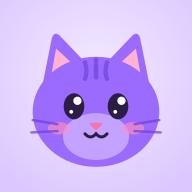
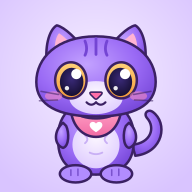
Time limit, auto-retry and backup model for Gemini; new shaded full-body cat
Claude-Session: https://claude.ai/code/session_019n5tnnEFKCgU8nDrxJsvHc

diff --git a/ai.js b/ai.js
@@ -72,14 +72,19 @@ export class AIError extends Error {
 
 // ---------- Gemini ----------
 const GEMINI = "https://generativelanguage.googleapis.com/v1beta";
+const wait = (ms) => new Promise((r) => setTimeout(r, ms));
 
 function versionScore(name) {
   const m = name.match(/gemini-(\d+)(?:\.(\d+))?/);
   return m ? Number(m[1]) * 100 + Number(m[2] || 0) : 0;
 }
+function newestFirst(list) {
+  return list.sort((a, b) => versionScore(b) - versionScore(a) || a.length - b.length);
+}
 
-// Picks the newest regular "flash" model this key can use, so the app keeps working as Google renames models.
-export async function pickGeminiModel(key) {
+// Finds the newest regular "flash" model and the newest "flash-lite" model this key can use.
+// Lite is the backup: lighter, faster and usually much less crowded.
+export async function pickGeminiModels(key) {
   let res;
   try {
     res = await fetch(`${GEMINI}/models?pageSize=200`, { headers: { "x-goog-api-key": key } });
@@ -94,18 +99,17 @@ export async function pickGeminiModel(key) {
   const names = (data.models || [])
     .filter((m) => (m.supportedGenerationMethods || []).includes("generateContent"))
     .map((m) => m.name.replace(/^models\//, ""));
-  const bad = /(lite|preview|exp|image|tts|audio|live|thinking|embedding|vision|8b|latest)/;
-  const flash = names.filter((n) => /^gemini-[\d.]+-flash/.test(n) && !bad.test(n));
-  flash.sort((a, b) => versionScore(b) - versionScore(a) || a.length - b.length);
-  if (flash[0]) return flash[0];
-  const anyFlash = names.filter((n) => n.includes("flash") && !/(image|tts|audio|live|embedding)/.test(n));
-  anyFlash.sort((a, b) => versionScore(b) - versionScore(a));
-  if (anyFlash[0]) return anyFlash[0];
-  if (names[0]) return names[0];
-  throw new AIError("other", "This key can't use any Gemini model that reads photos.");
+  const odd = /(preview|exp|image|tts|audio|live|thinking|embedding|vision|8b|latest|native|computer|robotics)/;
+  const stable = names.filter((n) => /^gemini-[\d.]+-flash/.test(n) && !odd.test(n));
+  const main = newestFirst(stable.filter((n) => !/lite/.test(n)))[0]
+    || newestFirst(names.filter((n) => /flash/.test(n) && !/lite/.test(n) && !/(image|tts|audio|live|embedding)/.test(n)))[0];
+  const lite = newestFirst(stable.filter((n) => /lite/.test(n)))[0]
+    || newestFirst(names.filter((n) => /flash-lite/.test(n) && !/(image|tts|audio|live|embedding)/.test(n)))[0];
+  if (!main && !lite) throw new AIError("other", "This key can't use any Gemini model that reads photos.");
+  return { main: main || lite, lite: lite || main };
 }
 
-async function geminiChat(key, model, turns, photoDataUrl) {
+async function geminiChat(key, model, turns, photoDataUrl, timeoutMs) {
   const contents = turns.map((t, i) => {
     const parts = [];
     if (i === 0 && photoDataUrl) {
@@ -116,10 +120,13 @@ async function geminiChat(key, model, turns, photoDataUrl) {
     parts.push({ text: t.role === "model" ? (t.raw || t.text) : (t.text || "Here's what I ate. What is it?") });
     return { role: t.role === "model" ? "model" : "user", parts };
   });
-  let res;
+  const ctl = new AbortController();
+  const timer = setTimeout(() => ctl.abort(), timeoutMs);
+  let res, data;
   try {
     res = await fetch(`${GEMINI}/models/${model}:generateContent`, {
       method: "POST",
+      signal: ctl.signal,
       headers: { "Content-Type": "application/json", "x-goog-api-key": key },
       body: JSON.stringify({
         systemInstruction: { parts: [{ text: INSTRUCTIONS }] },
@@ -127,25 +134,27 @@ async function geminiChat(key, model, turns, photoDataUrl) {
         generationConfig: { responseMimeType: "application/json", temperature: 0.4 },
       }),
     });
-  } catch {
+    data = await res.json().catch(() => null);
+  } catch (e) {
+    if (ctl.signal.aborted) throw new AIError("busy", `Gemini took too long to answer (${model}).`);
     throw new AIError("network", "Couldn't reach Google. Check your internet and try again.");
+  } finally {
+    clearTimeout(timer);
   }
-  if (res.status === 429) throw new AIError("limit", "You've hit Gemini's free limit for now. Try again in a little while.");
+  const detail = data?.error?.message || "";
+  if (res.status === 429) throw new AIError("limit", `Gemini's free limit is used up for now (${model}).`);
+  if ([500, 502, 503, 504].includes(res.status)) throw new AIError("busy", `Gemini is overloaded right now (${res.status}, ${model}).`);
+  if (res.status === 404 || /not found|not supported/i.test(detail)) throw new AIError("model", `Model ${model} isn't available.`);
   if (res.status === 400 || res.status === 401 || res.status === 403) {
-    let detail = "";
-    try { detail = (await res.json()).error?.message || ""; } catch {}
-    if (/api key/i.test(detail)) throw new AIError("key", "Your Gemini key stopped working. Paste a fresh one in Settings.");
-    if (res.status === 404 || /not found|not supported/i.test(detail)) throw new AIError("model", "model");
-    throw new AIError("other", "Gemini couldn't read that. Try a clearer photo or describe it in words.");
+    if (/api key|permission|unauth/i.test(detail)) throw new AIError("key", "Your Gemini key stopped working. Paste a fresh one in Settings.");
+    throw new AIError("other", `Gemini couldn't read that: ${detail || res.status}`);
   }
-  if (res.status === 404) throw new AIError("model", "model");
-  if (!res.ok) throw new AIError("other", `Gemini had a hiccup (${res.status}). Try again in a minute.`);
-  const data = await res.json();
-  const cand = data.candidates?.[0];
+  if (!res.ok) throw new AIError("busy", `Gemini had a hiccup (${res.status}, ${model}).`);
+  const cand = data?.candidates?.[0];
   if (!cand || cand.finishReason === "SAFETY") throw new AIError("other", "Gemini didn't want to answer that one. Try describing it in words.");
   const text = (cand.content?.parts || []).filter((p) => !p.thought).map((p) => p.text || "").join("");
   const parsed = cleanJSON(text);
-  if (!parsed) throw new AIError("other", "Gemini's answer came out jumbled. Tap send again.");
+  if (!parsed) throw new AIError("busy", "Gemini's answer came out jumbled.");
   return normalise(parsed);
 }
 
@@ -173,26 +182,34 @@ async function fakeChat(turns, photo) {
 }
 
 // turns: [{role:"user"|"model", text, raw?}]; photo is sent with the first turn.
+// Tries the main model, then the lighter backup model, so a busy Google server doesn't leave you stuck.
 export async function askAI(turns, photoDataUrl, { demo = false } = {}) {
   if (demo) return fakeChat(turns, photoDataUrl);
   const s = loadAISettings();
   const key = s.keys?.[s.provider];
   if (!key) throw new AIError("nokey", "Add your Gemini key in Settings first.");
   if (s.provider !== "gemini") throw new AIError("other", "Only Gemini works right now.");
-  let model = s.models?.gemini;
-  if (!model) {
-    model = await pickGeminiModel(key);
-    s.models = { ...(s.models || {}), gemini: model };
+  let models = s.models?.geminiSet;
+  const refresh = async () => {
+    models = await pickGeminiModels(key);
+    s.models = { ...(s.models || {}), geminiSet: models };
     saveAISettings(s);
+  };
+  if (!models) await refresh();
+  const plan = [[models.main, 40000], [models.lite, 30000], [models.lite, 30000]];
+  let lastErr;
+  for (let i = 0; i < plan.length; i++) {
+    const [model, timeout] = plan[i];
+    if (i > 0 && plan[i - 1][0] === model) await wait(2000);
+    try {
+      return await geminiChat(key, model, turns, photoDataUrl, timeout);
+    } catch (e) {
+      lastErr = e;
+      if (e.kind === "model") { await refresh(); continue; }
+      if (e.kind !== "busy" && e.kind !== "limit") throw e;
+    }
   }
-  try {
-    return await geminiChat(key, model, turns, photoDataUrl);
-  } catch (e) {
-    if (e.kind !== "model") throw e;
-    // The saved model was retired: pick a fresh one and try once more.
-    model = await pickGeminiModel(key);
-    s.models = { ...(s.models || {}), gemini: model };
-    saveAISettings(s);
-    return geminiChat(key, model, turns, photoDataUrl);
-  }
+  throw new AIError(lastErr?.kind === "limit" ? "limit" : "busy",
+    (lastErr?.kind === "limit" ? "Gemini's free limit is used up for now. Try again later." : "Gemini is too busy right now. Try again in a minute.")
+    + ` (${lastErr?.message || ""})`);
 }

diff --git a/cat.js b/cat.js
@@ -1,27 +1,69 @@
-// Munchkin the cat, drawn as SVG so it stays crisp at any size.
-// Stage 1: one still pose. More poses arrive with the animation update.
+// Munchkin the cat: a chubby purple kitten with soft shading, outlines and big glossy eyes.
+// Drawn as SVG so it stays crisp at any size. More poses arrive with the animation update.
+let uid = 0;
 export function catSVG({ size = "100%", label = "Munchkin the cat" } = {}) {
+  const k = `c${uid++}`;
+  const O = "#3b2163"; // outline
   return `
-<svg viewBox="0 0 120 120" width="${size}" height="${size}" role="img" aria-label="${label}">
-  <g>
-    <path d="M20 54 L28 14 Q30 9 34 13 L54 34 Z" fill="#9b6bff"/>
-    <path d="M100 54 L92 14 Q90 9 86 13 L66 34 Z" fill="#9b6bff"/>
-    <path d="M27 44 L31 22 L45 35 Z" fill="#ffb3d1"/>
-    <path d="M93 44 L89 22 L75 35 Z" fill="#ffb3d1"/>
-    <ellipse cx="60" cy="68" rx="46" ry="40" fill="#9b6bff"/>
-    <path d="M52 32 q2 7 0 12 M60 30 q0 8 0 13 M68 32 q-2 7 0 12" stroke="#7d4ee8" stroke-width="3.2" fill="none" stroke-linecap="round"/>
-    <ellipse cx="60" cy="86" rx="24" ry="17" fill="#c3a3ff"/>
-    <ellipse cx="33" cy="80" rx="8" ry="4.5" fill="#ff8fbf" opacity=".65"/>
-    <ellipse cx="87" cy="80" rx="8" ry="4.5" fill="#ff8fbf" opacity=".65"/>
-    <ellipse cx="44" cy="64" rx="7.5" ry="9.5" fill="#2b1d44"/>
-    <ellipse cx="76" cy="64" rx="7.5" ry="9.5" fill="#2b1d44"/>
-    <circle cx="46.5" cy="60" r="3" fill="#fff"/>
-    <circle cx="78.5" cy="60" r="3" fill="#fff"/>
-    <circle cx="42" cy="68" r="1.4" fill="#fff"/>
-    <circle cx="74" cy="68" r="1.4" fill="#fff"/>
-    <path d="M56.5 76 h7 q1.5 0 .5 1.6 l-3 3 q-1 1-2 0 l-3-3 q-1-1.6.5-1.6z" fill="#ff6fa8"/>
-    <path d="M52 84 q4 4.5 8 0 q4 4.5 8 0" stroke="#2b1d44" stroke-width="2.2" fill="none" stroke-linecap="round"/>
-    <path d="M14 74 l18 3 M13 83 l19-1 M106 74 l-18 3 M107 83 l-19-1" stroke="#6b3fd9" stroke-width="1.8" stroke-linecap="round" opacity=".7"/>
+<svg viewBox="0 0 200 220" width="${size}" height="${size}" ${label ? `role="img" aria-label="${label}"` : `aria-hidden="true"`}>
+  <defs>
+    <radialGradient id="${k}b" cx="42%" cy="35%" r="70%">
+      <stop offset="0" stop-color="#c3a2ff"/><stop offset=".6" stop-color="#9a6af5"/><stop offset="1" stop-color="#7647d8"/>
+    </radialGradient>
+    <radialGradient id="${k}m" cx="50%" cy="35%" r="70%">
+      <stop offset="0" stop-color="#fbf6ff"/><stop offset="1" stop-color="#ddc9ff"/>
+    </radialGradient>
+    <radialGradient id="${k}e" cx="50%" cy="40%" r="60%">
+      <stop offset="0" stop-color="#3a2a78"/><stop offset="1" stop-color="#160f33"/>
+    </radialGradient>
+    <linearGradient id="${k}i" x1="0" y1="0" x2="0" y2="1">
+      <stop offset="0" stop-color="#ffd27a"/><stop offset="1" stop-color="#f29a3c"/>
+    </linearGradient>
+    <linearGradient id="${k}p" x1="0" y1="0" x2="0" y2="1">
+      <stop offset="0" stop-color="#ff9fc6"/><stop offset="1" stop-color="#f06aa3"/>
+    </linearGradient>
+  </defs>
+  <g stroke="${O}" stroke-width="3.2" stroke-linejoin="round" stroke-linecap="round">
+    <!-- tail -->
+    <path d="M150 182 C186 178 192 140 172 126 C166 122 160 128 165 134 C176 146 170 166 146 168 Z" fill="url(#${k}b)"/>
+    <!-- body -->
+    <path d="M52 168 C48 130 70 112 100 112 C130 112 152 130 148 168 C146 196 126 206 100 206 C74 206 54 196 52 168 Z" fill="url(#${k}b)"/>
+    <ellipse cx="100" cy="168" rx="30" ry="30" fill="url(#${k}m)" stroke="none"/>
+    <path d="M86 156 q6 5 0 10 M114 156 q-6 5 0 10 M92 178 q8 4 16 0" fill="none" stroke="#c9b0f5" stroke-width="2.4"/>
+    <!-- feet -->
+    <ellipse cx="74" cy="205" rx="20" ry="11" fill="#b28cff"/>
+    <ellipse cx="126" cy="205" rx="20" ry="11" fill="#b28cff"/>
+    <path d="M68 200 v7 M77 199 v8 M120 200 v7 M129 199 v8" fill="none" stroke="#7a52cf" stroke-width="2"/>
+    <!-- arms -->
+    <path d="M58 140 C46 150 46 168 58 172 C66 170 66 152 62 144 Z" fill="url(#${k}b)"/>
+    <path d="M142 140 C154 150 154 168 142 172 C134 170 134 152 138 144 Z" fill="url(#${k}b)"/>
+    <!-- bib -->
+    <path d="M68 124 C84 138 116 138 132 124 C130 144 117 158 100 158 C83 158 70 144 68 124 Z" fill="url(#${k}p)"/>
+    <path d="M100 141 c-3-4-9-2-8 3 c1 4 8 8 8 8 s7-4 8-8 c1-5-5-7-8-3z" fill="#fff" stroke="none"/>
+    <!-- ears -->
+    <path d="M38 70 C34 44 40 22 50 16 C60 18 76 34 84 46 Z" fill="url(#${k}b)"/>
+    <path d="M162 70 C166 44 160 22 150 16 C140 18 124 34 116 46 Z" fill="url(#${k}b)"/>
+    <path d="M48 56 C46 42 49 30 53 26 C59 30 68 38 72 46 Z" fill="#ffb3d3" stroke="none"/>
+    <path d="M152 56 C154 42 151 30 147 26 C141 30 132 38 128 46 Z" fill="#ffb3d3" stroke="none"/>
+    <!-- head -->
+    <path d="M100 30 C150 30 176 58 176 88 C176 118 148 132 100 132 C52 132 24 118 24 88 C24 58 50 30 100 30 Z" fill="url(#${k}b)"/>
+    <path d="M86 36 q4 10 0 18 M100 33 q0 11 0 20 M114 36 q-4 10 0 18" fill="none" stroke="#7445d4" stroke-width="3.6"/>
+    <!-- muzzle -->
+    <ellipse cx="100" cy="108" rx="34" ry="21" fill="url(#${k}m)" stroke="none"/>
+    <!-- eyes -->
+    <ellipse cx="68" cy="86" rx="20" ry="23" fill="url(#${k}i)"/>
+    <ellipse cx="132" cy="86" rx="20" ry="23" fill="url(#${k}i)"/>
+    <ellipse cx="69" cy="88" rx="15" ry="18" fill="url(#${k}e)" stroke="none"/>
+    <ellipse cx="131" cy="88" rx="15" ry="18" fill="url(#${k}e)" stroke="none"/>
   </g>
+  <circle cx="75" cy="78" r="6.5" fill="#fff"/>
+  <circle cx="137" cy="78" r="6.5" fill="#fff"/>
+  <circle cx="63" cy="96" r="2.8" fill="#fff" opacity=".9"/>
+  <circle cx="125" cy="96" r="2.8" fill="#fff" opacity=".9"/>
+  <ellipse cx="46" cy="106" rx="11" ry="6" fill="#ff8fbf" opacity=".55"/>
+  <ellipse cx="154" cy="106" rx="11" ry="6" fill="#ff8fbf" opacity=".55"/>
+  <path d="M94 101 h12 q3 0 1 3 l-5 5 q-2 2-4 0 l-5-5 q-2-3 1-3z" fill="#ff6fa8" stroke="${O}" stroke-width="2"/>
+  <path d="M88 114 q6 6 12 0 q6 6 12 0" fill="none" stroke="${O}" stroke-width="2.8" stroke-linecap="round"/>
+  <path d="M30 100 l22 4 M28 112 l23-1 M170 100 l-22 4 M172 112 l-23-1" stroke="${O}" stroke-width="2" stroke-linecap="round" opacity=".55"/>
 </svg>`;
 }

diff --git a/app.js b/app.js
@@ -1,6 +1,6 @@
 import { catSVG } from "./cat.js";
 import { createStore } from "./store.js";
-import { askAI, hasKey, loadAISettings, saveAISettings, pickGeminiModel, PROVIDERS } from "./ai.js";
+import { askAI, hasKey, loadAISettings, saveAISettings, pickGeminiModels, PROVIDERS } from "./ai.js";
 
 const demo = new URLSearchParams(location.search).has("demo");
 const $app = document.getElementById("app");
@@ -464,15 +464,19 @@ $app.addEventListener("click", async (ev) => {
     const key = document.getElementById("gemini-key").value.trim();
     const s = loadAISettings();
     s.keys = { ...(s.keys || {}), gemini: key };
-    s.models = { ...(s.models || {}) };
-    delete s.models.gemini;
+    s.models = {};
     saveAISettings(s);
     if (!key) { state.settingsStatus = { ok: false, text: "Key removed." }; render(); return; }
-    state.settingsStatus = { ok: true, text: "Checking your key…" }; render();
+    state.settingsStatus = { ok: true, text: "Checking your key… (this can take up to a minute)" }; render();
     try {
-      const model = demo ? "demo-model" : await pickGeminiModel(key);
-      s.models.gemini = model; saveAISettings(s);
-      state.settingsStatus = { ok: true, text: `It works! Munchkin will use ${model}.` };
+      if (!demo) {
+        const models = await pickGeminiModels(key);
+        s.models = { geminiSet: models }; saveAISettings(s);
+      }
+      const t = await askAI([{ role: "user", text: "one medium apple" }], null, { demo });
+      const kcal = t.items.reduce((n, i) => n + i.calories, 0);
+      const set = loadAISettings().models?.geminiSet;
+      state.settingsStatus = { ok: true, text: `It works! Test guess: ${t.name}, ${kcal} kcal.${set ? ` Main model: ${set.main}, backup: ${set.lite}.` : ""}` };
     } catch (e) {
       state.settingsStatus = { ok: false, text: e.message };
     }

diff --git a/sw.js b/sw.js
@@ -1,7 +1,8 @@
-// Lets phones install Munchkin as an app. Always fetches fresh files, so updates show up right away.
+// Lets phones install Munchkin as an app. Always checks for fresh files, so updates show up right away.
 self.addEventListener("install", () => self.skipWaiting());
 self.addEventListener("activate", (e) => e.waitUntil(self.clients.claim()));
 self.addEventListener("fetch", (e) => {
-  if (e.request.method !== "GET") return;
-  e.respondWith(fetch(e.request));
+  const req = e.request;
+  if (req.method !== "GET" || new URL(req.url).origin !== self.location.origin) return;
+  e.respondWith(fetch(req, { cache: "no-cache" }).catch(() => fetch(req)));
 });
